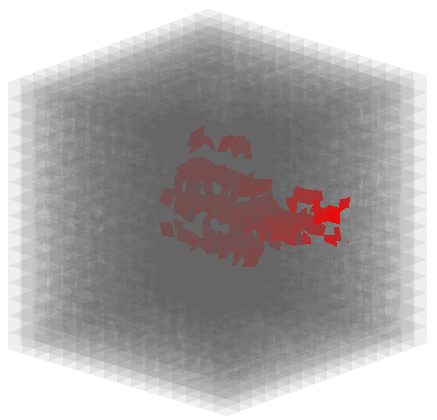
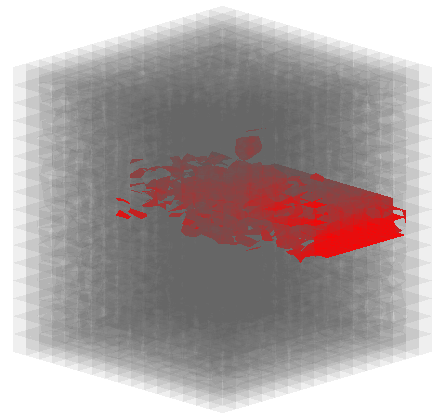
20200313: Amir's changes

diff --git a/04_mex05.tex b/04_mex05.tex
@@ -1,9 +1,9 @@
-\section{Model Exercise 1-1 (05): Swelling of clay}
+\section{Model Exercise 1-1 (05): Swelling of red salt clay}
 \label{sec:mex05}
 %------------------------------------------------------------------------------
 \Authors{Amir Sattari, Keita Yoshioka, Mathias Nest, Christopher R\"olke}
 %------------------------------------------------------------------------------
-Model Exercise (MEX 1-1) investigates the close of pathways by swelling of claystone. The numerical and experimental approaches are considered to understand the governing factors, which result in materials behavior change, during the swelling process. The experimental setup is described in section \ref{sec:t4swell}.
+Model Exercise (MEX 1-1) investigates the closure of micro pathways by swelling of red salt clay. The numerical and experimental approaches are considered to understand the governing factors, which result in materials behavior change during the swelling process. The experimental setup is described in section \ref{sec:t4swell}.
 
 \subsection{Experiment}
 
@@ -14,7 +14,7 @@ Model Exercise (MEX 1-1) investigates the close of pathways by swelling of clays
 \label{fig:t4swellresults}
 \end{figure}
 
-The experiment was conducted with a sample of dry red salt clay from the Aller series (T4) of the Zechstein in northern Germany. The experiment ran for 8 weeks, under isostatic stress conditions of 4 bar, and a brine pressure of 1 bar. 
+The experiment was conducted on a sample of dry red salt clay from the Aller series (T4) of the Zechstein in northern Germany. The experiment ran for 8 weeks, under isostatic stress conditions of 4 bar, and a brine pressure of 1 bar. 
 
 Figure \ref{fig:t4swellresults} shows the amount of fluid that went into the sample (red), the change of the volume of the medium which applies the surrounding pressure (orange), and the permeability (green). We see that during the first three weeks the brine modifies the clay, and pathways are opened and closed. Apart from the wetting of the clay this may also be due to some salt going into solution and recrystallization. After this the permeability behaves more smoothly, and decreases with time. At all times the volume of the surrounding medium was below its initial value, indicating that swelling took place. 
 
@@ -25,7 +25,7 @@ Figure \ref{fig:t4swellresults} shows the amount of fluid that went into the sam
 \subsection{Model approach}
 \subsubsection*{Lattice element model}
 
-With the application of the lattice model, the simulation of the swelling process in Opalinus Claystone sample is investigated. The experimental data provided by IfG Leipzig are used to determine the heave, swelling pressure and the change of permeability. The expansion of the elements based on the shrinkage and swelling model described in section \ref{Section:ShrinkageLattice} is carried out. The expansion of the elements results in decrease of the hydraulic aperture and therefore lower permeability values. However, during the swelling process the micro fracking is also observed. The elements expansion lead to higher axial confinement stresses between the Voronoi cells, which is represented by interface elements. The linear strains parallel and perpendicular to the embedded layers found in section \ref{sec:mex06} are used to determine the swelling coefficient values. Eventually, the outcome of the simulation is compared to the experimental results. 
+With the application of the lattice model, the simulation of the swelling process in red salt clay sample is investigated. The experimental data provided by IfG Leipzig are used to determine the initial permeability and hydraulic aperture values. The calculated parameters then are transformed into lattice model to simulate the swelling and change of the permeability with swelling process. The salt re-crystallization and closure of micro-pathways is not investigated here. The expansion of the elements based on the shrinkage and swelling model described in section \ref{Section:ShrinkageLattice} is carried out. The expansion of the elements results in decrease of the hydraulic aperture and therefore lower permeability values. However, during the swelling process the micro fracking is also observed. The elements expansion lead to higher axial confinement stresses between the Voronoi cells, which is represented by interface elements.  Eventually, the outcome of the simulation is compared to the experimental results. 
 
 \todo[inline]{[CAU] Please add LEM results}
 \todo[inline]{[UFZ] Keita will you contribute to this MEX?}

diff --git a/04_mex11.tex b/04_mex11.tex
@@ -3,14 +3,24 @@
 %------------------------------------------------------------------------------
 \Authors{Mathias Nest et al.}
 %------------------------------------------------------------------------------
-\todo[inline]{[IfG]: Please describe Springen MEX}
-%------------------------------------------------------------------------------
-\subsection{Experimental set-up}
-%------------------------------------------------------------------------------
-%------------------------------------------------------------------------------
-\subsection{Model approach}
-%------------------------------------------------------------------------------
-%------------------------------------------------------------------------------
-\subsection{Results and discussion}
-%------------------------------------------------------------------------------
-This Model-Exercise will be continued in future research work.
+
+\begin{figure}[ht]
+\centering
+\includegraphics[width=0.9\textwidth]{figures/IfG-borehole-overview-small.png}
+\caption{Mining field Springen (left), borehole (right)}
+\label{fig:largeborehole1}
+\end{figure}
+
+The motivation for this experiment was two-fold. First, decommissioned caverns are usually filled with brine before they are closed and sealed. The lower density of the brine leads to a buoyant force, so that the pressure in the liquid can become larger than the lithostatic stress in that depth. This led to questions about the long-term tightness of abandoned caverns, and thus safety concerns. Of central importance was the question, whether a large, long-range frac would be suddenly created, or a slow expansion between the salt crystals would take place. 
+
+\begin{figure}[ht]
+\centering
+\includegraphics[width=0.8\textwidth]{figures/IfG-Druckkurve-50d.png}
+\caption{Sequence of three pressure applications over a span of 50 days.}
+\label{fig:largeborehole2}
+\end{figure}
+
+Second, from a scientific point of view, it is interesting to see whether there is a difference in the pressure driven percolation between liquids and gases. To conduct experiments under realistic in situ conditions to answer these questions a large borehole with a volume of about 50 m$^3$ was excavated between two seams in the Springen mining field, see also Sec. \ref{sec:springen} and Fig. \ref{fig:largeborehole1}. In 2011/2012 this borehole was used to conduct an experiment with pressurized air. Here, we report results of an experiment performed in 2018, where the borehole was loaded with brine. Starting in early 2018, the brine pressure was increased in small steps of around 5 bar, followed by periods of rest, where the surrounding rock was allowed to react. In the summer a pressure level was reached that was close to the minimal principal stress of about 50 bar. Fig. \ref{fig:largeborehole2} shows the last three pressure spikes over a span of 50 days. They were created by pumping brine with rates of 2 l/h, 3.3 l/h and 5.5 l/h, respectively. Each time, a rapid drop in pressure was observed consistent with the high bulk modulus of brine and the simulations in Sec. \ref{sec:mex04}. The fact that more than 60 bar were required to induce cracks between salt crystals, i.e. more than minimal principal stress, is due to the tensile/adhesive strength of rock salt. 
+
+The central part of the figure shows, that the decay of the pressure still continues 6 weeks after the pressure spike, showing the slow expansion of the brine into the surrounding area. The final spike was an attempt to determine the highest pressure obtainable with available equipment (however, with the previously damaged rock salt). The experiment ended August 14, 2018. Acoustic emission data has been collected, but requires further analysis. Further pressure measurements in the spring of 2019 provided values of around 50 bar, consistent with the minimal stress criterion. 
+

diff --git a/contribution.tex b/contribution.tex
@@ -3,56 +3,31 @@
 We appreciate the contributions to the GeomInt project by  (alphabetical order):
 
 \begin{list}{-}{\leftmargin=1em \itemindent=0em \itemsep=0.1em}
-
-\item Thomas Fr\"uhwirth [TF] (TUBAF, Technische Universit\"at Bergakademie Freiberg, DE)	
-
-\item Uwe-Jens G\"orke [UJG] (UFZ, Helmholtz Centre for Environmental Research, DE)	
-
-\item Carolin Helbig [CH] (UFZ, Helmholtz Centre for Environmental Research, DE)	
-
-\item Leslie Jakobs [LJ] (UFZ, Helmholtz Centre for Environmental Research, DE)
-
+\item Thomas Fr\"uhwirth (TUBAF, Technische Universit\"at Bergakademie Freiberg, DE)	
+\item Uwe-Jens G\"orke (UFZ, Helmholtz Centre for Environmental Research, DE)	
+\item Carolin Helbig (UFZ, Helmholtz Centre for Environmental Research, DE)	
+\item Leslie Jakobs (UFZ, Helmholtz Centre for Environmental Research, DE)
 \item Tilo Kneuker (BGR, Federal Institute for Geosciences and Natural Resources, Hanover, DE)
-
-\item Olaf Kolditz [OK] (UFZ, Helmholtz Centre for Environmental Research, Technische Universität Dresden, DE) 
-
-\item Heinz Konietzky [HK] (TUBAF, Technische Universit\"at Bergakademie Freiberg, DE)	
-
-\item Thomas Nagel [TN] (TUBAF, Technische Universit\"at Bergakademie Freiberg, DE) 
-
+\item Olaf Kolditz (UFZ, Helmholtz Centre for Environmental Research, Technische Universität Dresden, DE) \item Heinz Konietzky (TUBAF, Technische Universit\"at Bergakademie Freiberg, DE)	
+\item Thomas Nagel (TUBAF, Technische Universit\"at Bergakademie Freiberg, DE) 
 \item Jobst Ma{\ss}mann (BGR, Federal Institute for Geosciences and Natural Resources, Hanover, DE)
-
-\item Wolfgang Minkley [WM] (IfG, Institut für Gebirgsmechanik Leipzig, DE)	
-
-\item Matthias Nest [MN] (IfG, Institut für Gebirgsmechanik Leipzig, DE)	
+\item Wolfgang Minkley (IfG, Institut für Gebirgsmechanik Leipzig, DE)	
+\item Matthias Nest (IfG, Institut für Gebirgsmechanik Leipzig, DE)	
 \item Daniel P\"otschke [DP] (TUBAF, Technische Universit\"at Bergakademie Freiberg, DE)
-
-
 \item Karsten Rink (UFZ, Helmholtz Centre for Environmental Research, Leipzig, DE) 
-
 \item Matthias Ruf (UoS, University of Stuttgart, DE)
-
-\item Amir Shoarian Sattari [AS] (CAU, Christian-Albrechts-Universität zu Kiel, DE)
-
-\item Patrick Schmidt [PS] (UoS, University of Stuttgart, DE)	
-
-\item Holger Steeb [HS] (UoS, University of Stuttgart, DE)	
-
-\item Bernhard Vowinckel [BV] (BGR, Federal Institute for Geosciences and Natural Resources, Hanover, DE)	
-
-\item Wenqing Wang [WW] (UFZ, Helmholtz Centre for Environmental Research, Leipzig, DE) 
-
-\item Frank Wuttke [FW] (CAU, Christian-Albrechts-Universität zu Kiel, DE)	
-
-\item Keita Yoshioka [KY] (UFZ, Helmholtz Centre for Environmental Research, DE) 
-
+\item Amir Shoarian Sattari (CAU, Christian-Albrechts-Universität zu Kiel, DE)
+\item Patrick Schmidt (UoS, University of Stuttgart, DE)	
+\item Holger Steeb (UoS, University of Stuttgart, DE)	
+\item Bernhard Vowinckel (BGR, Federal Institute for Geosciences and Natural Resources, Hanover, DE)	
+\item Wenqing Wang (UFZ, Helmholtz Centre for Environmental Research, Leipzig, DE) 
+\item Frank Wuttke (CAU, Christian-Albrechts-Universität zu Kiel, DE)	
+\item Keita Yoshioka (UFZ, Helmholtz Centre for Environmental Research, DE) 
 \item Gesa Ziefle (BGR, Federal Institute for Geosciences and Natural Resources, Hanover, DE)	
-
 \item [] (BGR, Federal Institute for Geosciences and Natural Resources, Hanover, DE)	
 \item [] (CAU, Christian-Albrechts-Universität zu Kiel, DE)	
 \item [] (IfG, Institut für Gebirgsmechanik Leipzig, DE)	
 \item [] (TUBAF, Technische Universit\"at Bergakademie Freiberg, DE)	
 \item [] (UFZ, Helmholtz Centre for Environmental Research, DE)	
 \item [] (UoS, University of Stuttgart, DE)	
-
 \end{list}

diff --git a/04_mex_2-1b.tex b/04_mex_2-1b.tex
@@ -86,7 +86,7 @@ The syringe pump is used to pump the pressurized hydraulic oil (up to 517 $Bar$)
 %------------------------------------------------------------------------------
 \subsubsection*{Lattice-Element-Model (LEM)}
 
-With the implemented lattice model, the effect of the Opalinus claystone anisotropy on the fracking paths and fracking pressure is investigated. The similar approach as described in section \ref {sec:mex01} is taken to define the layering orientations in the medium. It is assumed that the interface elements bonding two different layers have 5 times weaker strength than the same layers bond (found in \ref{sec:Brazilian_Disk_Exp}). The generated 3D setup using the LEM is shown in Fig. \ref{fig:Amir_Percolation_Setup_a} and \ref{fig:Amir_Percolation_Setup_b}. The percolation tests under the two stress configurations and with different embedded layering orientations are simulated. Fig. \ref{fig:Amir_ME2_B_Flow_a} and Fig. \ref{fig:Amir_ME2_B_Fracture_a} depict the flow path and the fracking surfaces for the $1^{st}$ stress configuration. Fig. \ref{fig:Amir_ME2_B_Flow_b} and Fig. \ref{fig:Amir_ME2_B_Fracture_b} show the flow path and the fracking surfaces for the $2^{nd}$ stress configuration, respectively. It is observed, similar to the experimental result, that the layering orientation controls the flow paths in Opalinus claystone samples. 
+With the implemented lattice model, the effect of the Opalinus claystone anisotropy on the fracking paths and fracking pressure is investigated. The similar approach as described in section \ref {sec:mex01} is taken to define the layering orientations in the medium. It is assumed that the interface elements bonding two different layers have 5 times weaker strength than the same layers bond (found in \ref{sec:Brazilian_Disk_Exp}). The generated 3D setup using the LEM is shown in Fig. \ref{fig:Amir_Percolation_Setup_a} and \ref{fig:Amir_Percolation_Setup_b}. The percolation tests under the two stress configurations and with different embedded layering orientations are simulated. Fig. \ref{fig:Amir_ME2_B_Fracture_a} and \ref{fig:Amir_ME2_B_Fracture_b} depict the fracking surfaces (red) for the $1^{st}$ and $2^{nd}$ stress configurations, respectively. It is observed, similar to the experimental result, that the layering orientation controls the flow paths in Opalinus claystone samples. 
 
 
 \begin{figure}[!ht]
@@ -109,27 +109,9 @@ With the implemented lattice model, the effect of the Opalinus claystone anisotr
 \begin{figure}[!ht]
 \begin{subfigure}[c]{0.48\textwidth}
 \centering
-\includegraphics[width=5cm,height=5cm]{figures/Amir_ME2_B_Flow_a.png}
-\subcaption{}
-\label{fig:Amir_ME2_B_Flow_a}
-\end{subfigure}
-\hfill
-\begin{subfigure}[c]{0.48\textwidth}
-\centering
 \includegraphics[width=5cm,height=5cm]{figures/Amir_ME2_B_Fracture_a.png}
 \subcaption{}
 \label{fig:Amir_ME2_B_Fracture_a}
-\end{subfigure}
-\caption{The (a) flow paths, and (b) fracking surfaces (red) for the $1^{st}$ stress configuration}
-\end{figure}
-
-
-\begin{figure}[!ht]
-\begin{subfigure}[c]{0.48\textwidth}
-\centering
-\includegraphics[width=5cm,height=5cm]{figures/Amir_ME2_B_Flow_b.png}
-\subcaption{}
-\label{fig:Amir_ME2_B_Flow_b}
 \end{subfigure}
 \hfill
 \begin{subfigure}[c]{0.48\textwidth}
@@ -138,8 +120,9 @@ With the implemented lattice model, the effect of the Opalinus claystone anisotr
 \subcaption{}
 \label{fig:Amir_ME2_B_Fracture_b}
 \end{subfigure}
-\caption{The (a) flow paths, and (b) fracking surfaces (red) for the $2^{nd}$ stress configuration}
+\caption{The fracking surfaces (red) for the (a) $1^{st}$ , and (b) $2^{nd}$ stress configurations}
 \end{figure}
+
 
 
 \todo[inline]{[CAU]: Please add LEM simulation results}

diff --git a/schedule.tex b/schedule.tex
@@ -29,20 +29,22 @@ Step & What & When & Who \\ \hline \hline
 \rowcolor{green!50}
 51 & Chapter 1 Intro Proof-Reading & 22.02.2020 2020KW08 & OK/TN \\ \hline 
 %-------------------
+\rowcolor{green!50}
 52 & Chapter 2 EXP Proof-Reading & 29.02.2020 2020KW09 & FW/MN \\ \hline 
 %-------------------
-53 & Chapter 3 MOD Proof-Reading & 29.03.2020 2020KW10 & TN/JM \\ \hline 
+\rowcolor{green!50}
+53 & Chapter 3 MOD Proof-Reading & 29.02.2020 2020KW10 & TN/JM \\ \hline 
 %-------------------
-54 & Chapter 4 MEX Proof-Reading & 10.03.2020 2020KW11 & HS/TF \\ \hline 
+54 & Chapter 4 MEX Proof-Reading & 15.03.2020 2020KW11 & HS/TF \\ \hline 
 %-------------------
-55 & Chapter 5 DMS Proof-Reading & 13.03.2020 2020KW11 & CH/OK \\ \hline 
+55 & Chapter 5 DMS Proof-Reading & 18.03.2020 2020KW11 & CH/OK \\ \hline 
 %-------------------
-56 & Lists & 16.03.2020 2020KW12 & CH/OK \\ \hline 
+56 & Lists & 15.03.2020 2020KW12 & CH/OK \\ \hline 
 %-------------------
-57 & Proof-Reading & 17.03.2020 2020KW12 & CH/OK \\ \hline 
+57 & Proof-Reading & 18.03.2020 2020KW12 & CH/OK \\ \hline 
 %-------------------
 \rowcolor{red!50}
-59 & First book version & 18.03.2020 2020KW12 & CH/OK \\ \hline
+59 & First book version & 19.03.2020 2020KW12 & CH/OK \\ \hline
 %-------------------
 \hline
 %-------------------

diff --git a/GeomInt.tex b/GeomInt.tex
@@ -41,16 +41,16 @@
 %==============================================================================
 %\part{GeomInt Introduction}
 \todod{Introduction--------------------------------------------------------------------------}
-\include{01_project}
+%%\include{01_project}
 %==============================================================================
 %\part{Experimental Methods}
 \todod{Experimental Platform-------------------------------------------------------------}
-\include{02_experiments}
+%%\include{02_experiments}
 %==============================================================================
 %\part{Numerical Methods}
 \todold{Numerical Platform----------------------------------------------------------------}
 \todo[inline]{Please update literature discussion (status is 2017)}
-\include{03_models}
+%%\include{03_models}
 %==============================================================================
 %\part{Model Exercises (Benchmarks)}
 \todom{MEX-------------------------------------------------------------------------------------}

diff --git a/023_wp2.tex b/023_wp2.tex
@@ -1,7 +1,7 @@
 %===================================================================================================
 %---------------------------------------------------------------------------------------------------
 \subsection{Pressure Driven Percolation}
-\Authors{IfG}
+\Authors{Mathias Nest, Dirk Naumann}
 %\todo{Please insert authors}
 
 The determination of the permeability, which quantifies the flow behavior of fluids in the pore space of a rock, is based on the Darcy equation:

diff --git a/06_data-management.tex b/06_data-management.tex
@@ -768,7 +768,7 @@ The data set of the CNS test contains a file with the rock properties of the use
 & 
 \includegraphics[width=0.45\textwidth]{./figures/CNSDilatationAll.png} 
 \end{tabular}
-\caption{CNL test results}
+\caption{CNS test results}
 \label{fig:DataCNSBasaltLab}
 \end{figure}
 
